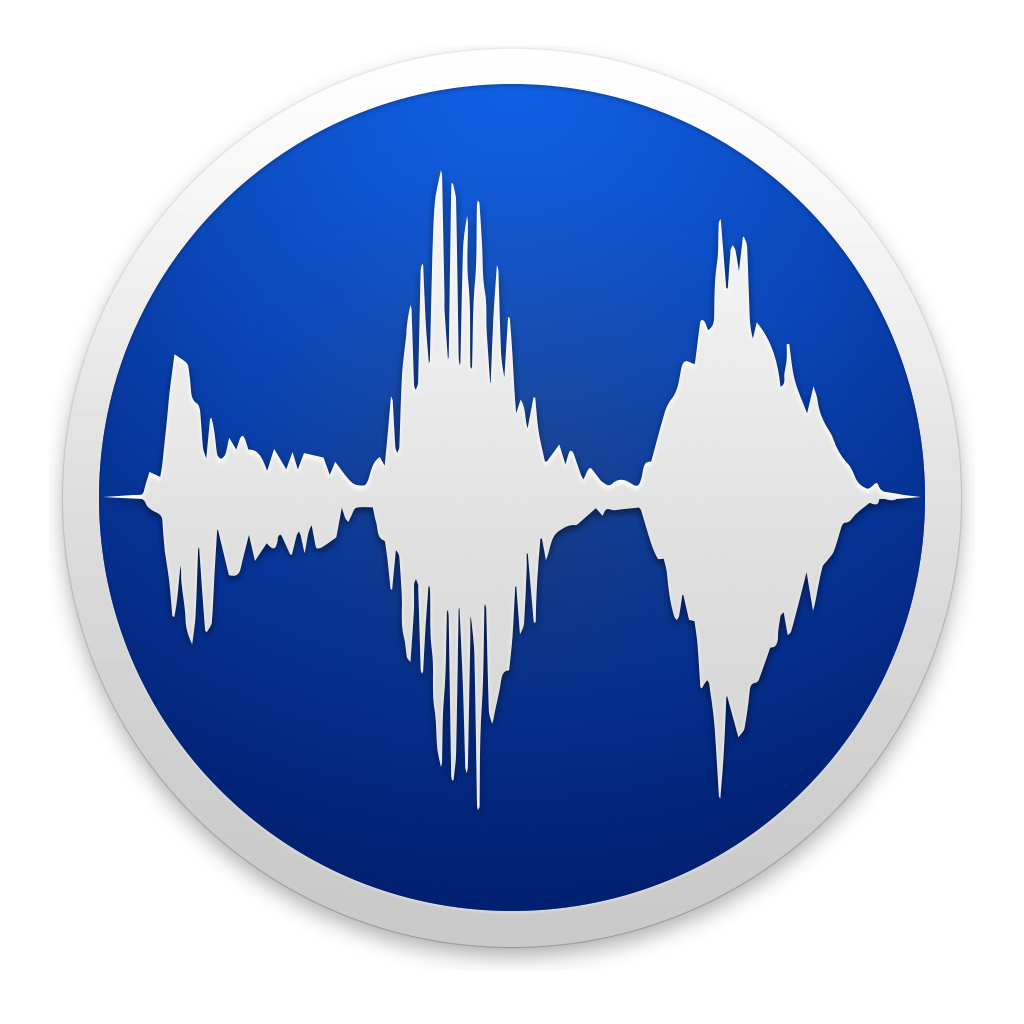
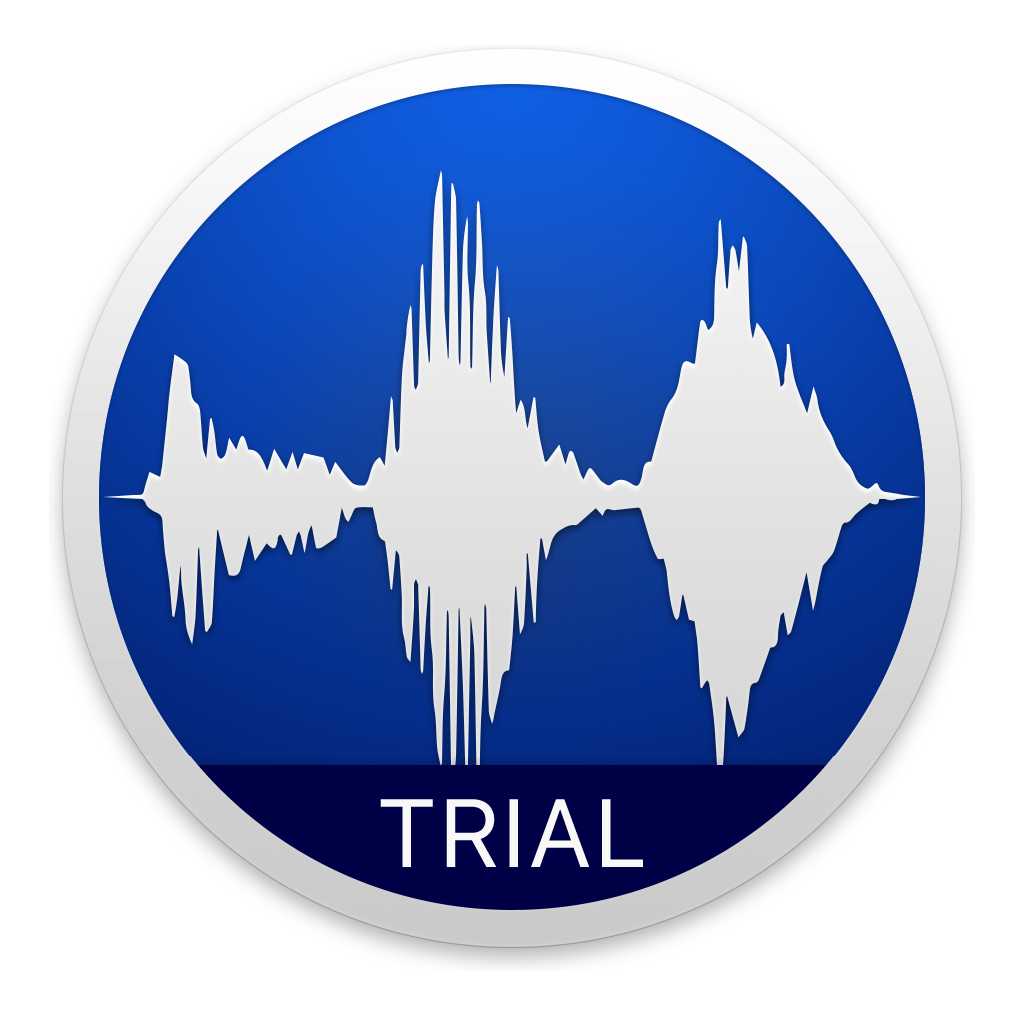
Check-in for trial

Changed region(s): [[0.1875, 0.7188, 0.8125, 0.9062]]

diff --git a/Source/SetlistController.m b/Source/SetlistController.m
@@ -30,6 +30,7 @@
 #import "TracksController.h"
 #import "TrialBottomView.h"
 #import "WhiteSlider.h"
+#import "BorderedView.h"
 
 #import <AVFoundation/AVFoundation.h>
 
@@ -140,14 +141,16 @@ static NSTimeInterval sAutoGapMaximum = 15.0;
     {
         NSScrollView *scrollView      = [self scrollView];
         BorderedView *bottomContainer = [self bottomContainer];
-    
 
         // Fix up the bottom here
         NSRect bottomFrame = [bottomContainer frame];
-        bottomFrame.size.height += 38;
         
+        NSRect borderedViewFrame = bottomFrame;
+        borderedViewFrame.origin.y = bottomFrame.size.height;
+        borderedViewFrame.size.height = 38;
+
         NSRect trialBottomViewFrame = bottomFrame;
-        trialBottomViewFrame.origin.y = 34;
+        trialBottomViewFrame.origin.y = 4;
         trialBottomViewFrame.size.height = 32;
         trialBottomViewFrame.size.width = 172;
         trialBottomViewFrame.origin.x = round((bottomFrame.size.width - 172) / 2);
@@ -157,12 +160,17 @@ static NSTimeInterval sAutoGapMaximum = 15.0;
         scrollFrame.origin.y += 38;
         [[self scrollView] setFrame:scrollFrame];
         
-        [[self bottomContainer] setFrame:bottomFrame];
+        BorderedView *borderedView = [[BorderedView alloc] initWithFrame:borderedViewFrame];
+        [borderedView setBackgroundColor:[NSColor whiteColor]];
+        [borderedView setTopBorderColor:[NSColor colorWithCalibratedWhite:0 alpha:0.1]];
+
+        [borderedView setAutoresizingMask:NSViewWidthSizable|NSViewMaxYMargin];
+
+        [[[self bottomContainer] superview] addSubview:borderedView];
 
         TrialBottomView *bv = [[TrialBottomView alloc] initWithFrame:trialBottomViewFrame];
         [bv setAutoresizingMask:NSViewMinXMargin|NSViewMaxXMargin|NSViewHeightSizable];
-        [[self bottomContainer] addSubview:bv];
-
+        [borderedView addSubview:bv];
     }
 #endif
 
